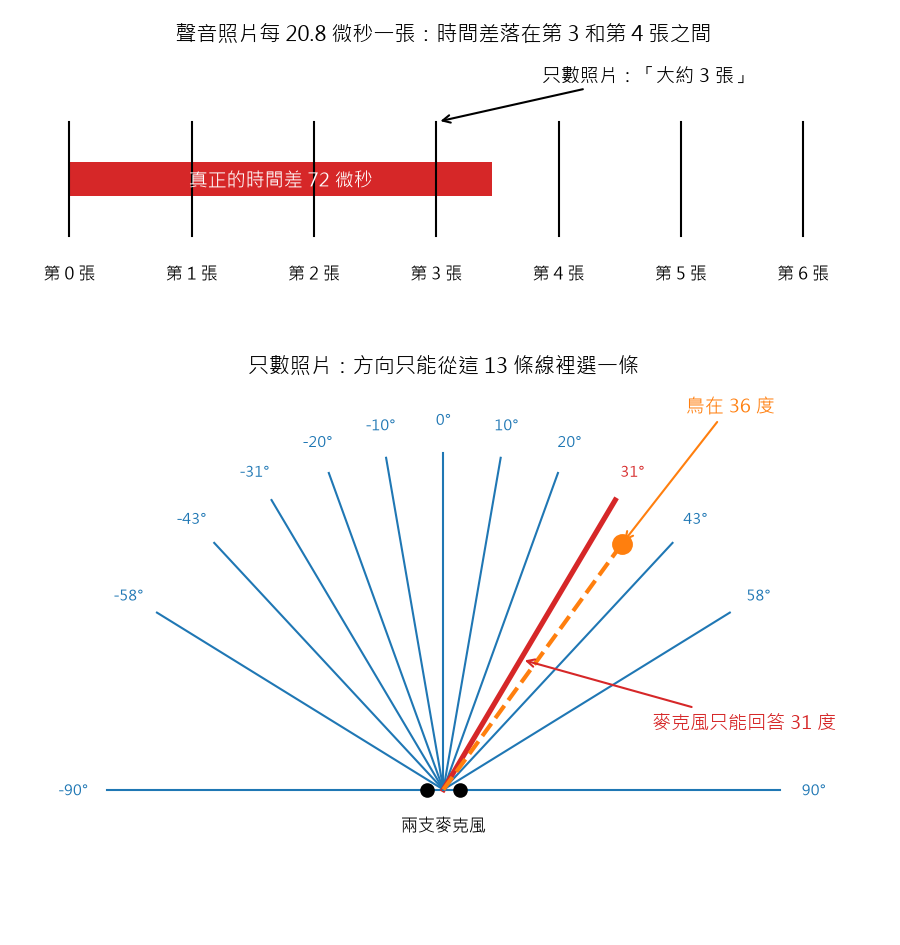
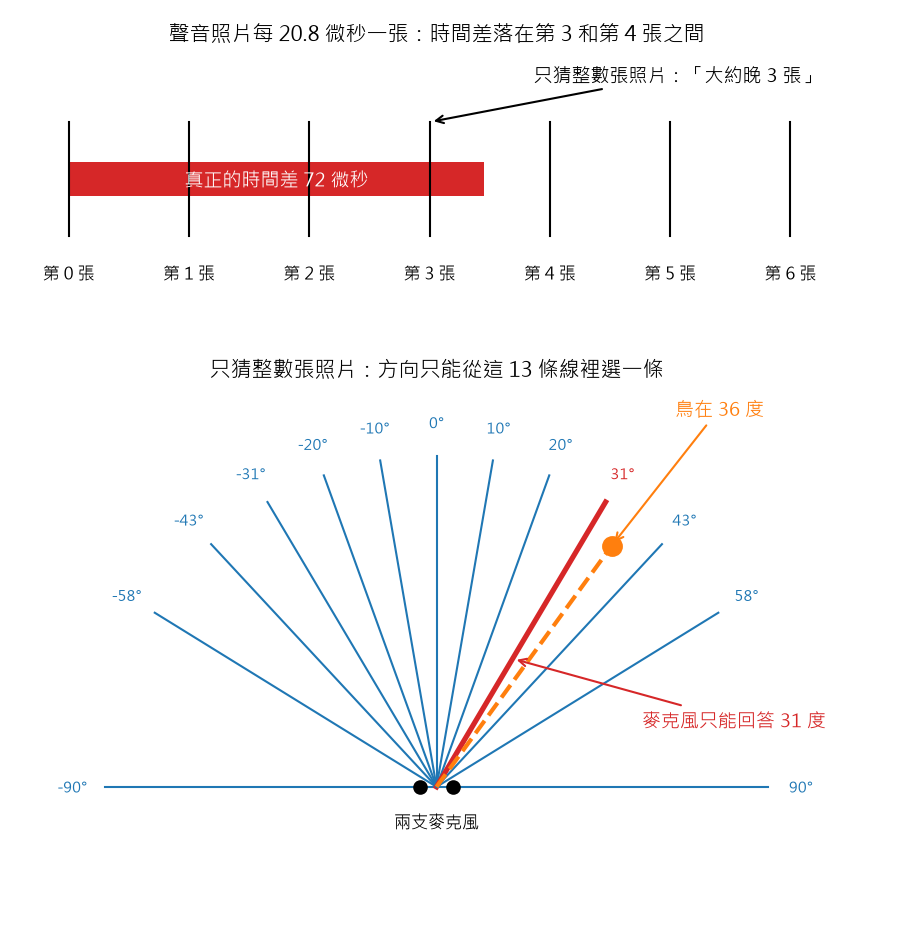
Use one wording for the two methods in every figure and section
Aaron saw that the sweep figure said "只數照片" for what the vote
figure calls "只猜整數張照片". Every figure label and chapter line now
uses "只猜整數張照片" and "也猜照片之間"; old leftovers ("只看取樣點",
"補細") are gone. "補畫" stays as the name of the method.

diff --git a/scripts/step1_two_mics.py b/scripts/step1_two_mics.py
@@ -99,7 +99,7 @@ def fig_ruler(path, true_deg=36):
     a.barh(0.5, tau_us, height=0.3, color="C3")
     a.text(tau_us / 2, 0.5, f"真正的時間差 {tau_us:.0f} 微秒", ha="center", va="center", color="white",
            fontsize=9)
-    a.annotate(f"只數照片：「大約 {k} 張」", (k * dt_us, 1.0), (k * dt_us + 18, 1.35), fontsize=9,
+    a.annotate(f"只猜整數張照片：「大約晚 {k} 張」", (k * dt_us, 1.0), (k * dt_us + 18, 1.35), fontsize=9,
                arrowprops=dict(arrowstyle="->"))
     a.set_xlim(-8, 6.5 * dt_us)
     a.set_ylim(-0.6, 1.6)
@@ -128,7 +128,7 @@ def fig_ruler(path, true_deg=36):
     b.set_xlim(-1.25, 1.25)
     b.set_ylim(-0.2, 1.2)
     b.axis("off")
-    b.set_title("只數照片：方向只能從這 13 條線裡選一條", fontsize=10)
+    b.set_title("只猜整數張照片：方向只能從這 13 條線裡選一條", fontsize=10)
     fig.tight_layout()
     fig.savefig(path, dpi=150)
 
@@ -239,13 +239,13 @@ def fig_votes(path):
 
 def fig_sweep(path, truth, whole, fine):
     fig, (a, b) = plt.subplots(2, 1, figsize=(6, 7), sharex=True)
-    whole_label, fine_label = "只數照片（每 20.8 微秒）", "照片之間補畫（每 1.3 微秒）"
+    whole_label, fine_label = "只猜整數張照片（每 20.8 微秒一個猜法）", "也猜照片之間（每 1.3 微秒一個猜法）"
     a.plot(truth, truth, "k:", label="正確答案")
     a.plot(truth, whole, "o-", ms=3, label=whole_label)
     a.plot(truth, fine, "-", label=fine_label)
     a.set_ylabel("麥克風回答的角度（度）")
     a.legend(fontsize=8)
-    a.set_title("只數照片：答案只有 13 種（樓梯）\n照片之間補畫：貼著正確答案", fontsize=11)
+    a.set_title("只猜整數張照片：答案只有 13 種（樓梯）\n也猜照片之間：貼著正確答案", fontsize=11)
     for ax in (a, b):
         ax.axvspan(-60, 60, color="grey", alpha=0.08)
     b.plot(truth, np.abs(whole - truth), "o-", ms=3, label=whole_label)

diff --git a/docs/blog/01-two-mics.md b/docs/blog/01-two-mics.md
@@ -58,13 +58,13 @@
 紅線和綠線長得一樣，只是紅線晚了 61 微秒。注意那個最高的波峰：它剛好落在兩張照片之間，
 沒有一張照片剛好拍到它。
 
-如果只能數「差了幾張照片」，就像用一把**只有公分刻度、沒有毫米刻度的尺**量東西。
+如果只能猜「晚了整數張照片」，就像用一把**只有公分刻度、沒有毫米刻度的尺**量東西。
 能量出來的角度只有 13 種，正前方附近一格就跳大約 10 度。要找鳥，這太粗了。
 
-![只數照片，時間差只能說「大約 3 張」；方向只能從 13 條線裡選一條](img/step1_ruler.png)
+![只猜整數張照片，時間差只能說「大約晚 3 張」；方向只能從 13 條線裡選一條](img/step1_ruler.png)
 
 - **上圖：** 鳥在 36 度時，真正的時間差是 72 微秒，落在第 3 和第 4 張照片之間。
-  只數照片的話，只能說「大約 3 張」，剩下那一小段就量不到了。
+  只猜整數張照片的話，只能說「大約晚 3 張」，剩下那一小段就量不到了。
 - **下圖：** 因為只能數整張照片，麥克風能回答的方向只有這 13 條線。
   鳥明明在 36 度（橘色），麥克風只能挑最近的一條線，回答 31 度，差了 5 度。
 
@@ -111,10 +111,10 @@
 
 我讓聲音從左邊 85 度一路移到右邊 85 度，每移 1 度就量一次，看麥克風回答幾度：
 
-![只看取樣點只有 13 種答案；補細後 ±60 度內誤差從 8.3 度降到 0.5 度，側面最不準](img/step1_sweep.png)
+![只猜整數張照片只有 13 種答案；也猜照片之間，±60 度內誤差從 8.3 度降到 0.5 度，側面最不準](img/step1_sweep.png)
 
-- **上圖：麥克風回答的角度。** 藍色是一階一階的樓梯：只能數照片，所以只有 13 種答案。
-  橘色補畫之後，幾乎貼著正確答案（黑色虛線）。
+- **上圖：麥克風回答的角度。** 藍色是一階一階的樓梯：只猜整數張照片，所以只有 13 種答案。
+  橘色也猜照片之間，幾乎貼著正確答案（黑色虛線）。
 - **下圖：答錯了幾度。** 灰色區域是左右 60 度以內。
 
 **規則一：照片之間可以「補畫」，不用買更快的相機。** 像「連連看」：
@@ -127,8 +127,8 @@
 聲音在側面時，像在山頂：角度變很多，時間差卻幾乎不動，就很難分辨。
 
 > **深入一點：** 角度誤差 = 時間差誤差 × c / (d × cos θ)。正前方 cos θ = 1；60 度時 cos θ = 0.5，
-> 誤差變 2 倍；越接近 90 度，cos θ 越接近 0。補細後 60 度以外最大誤差 4.3 度，
-> 只看取樣點時最大 20 度。
+> 誤差變 2 倍；越接近 90 度，cos θ 越接近 0。也猜照片之間時，60 度以外最大誤差 4.3 度，
+> 只猜整數張照片時最大 20 度。
 
 ## 5. 先挑對評審：只讓聽得到鳥叫的頻率投票
 
